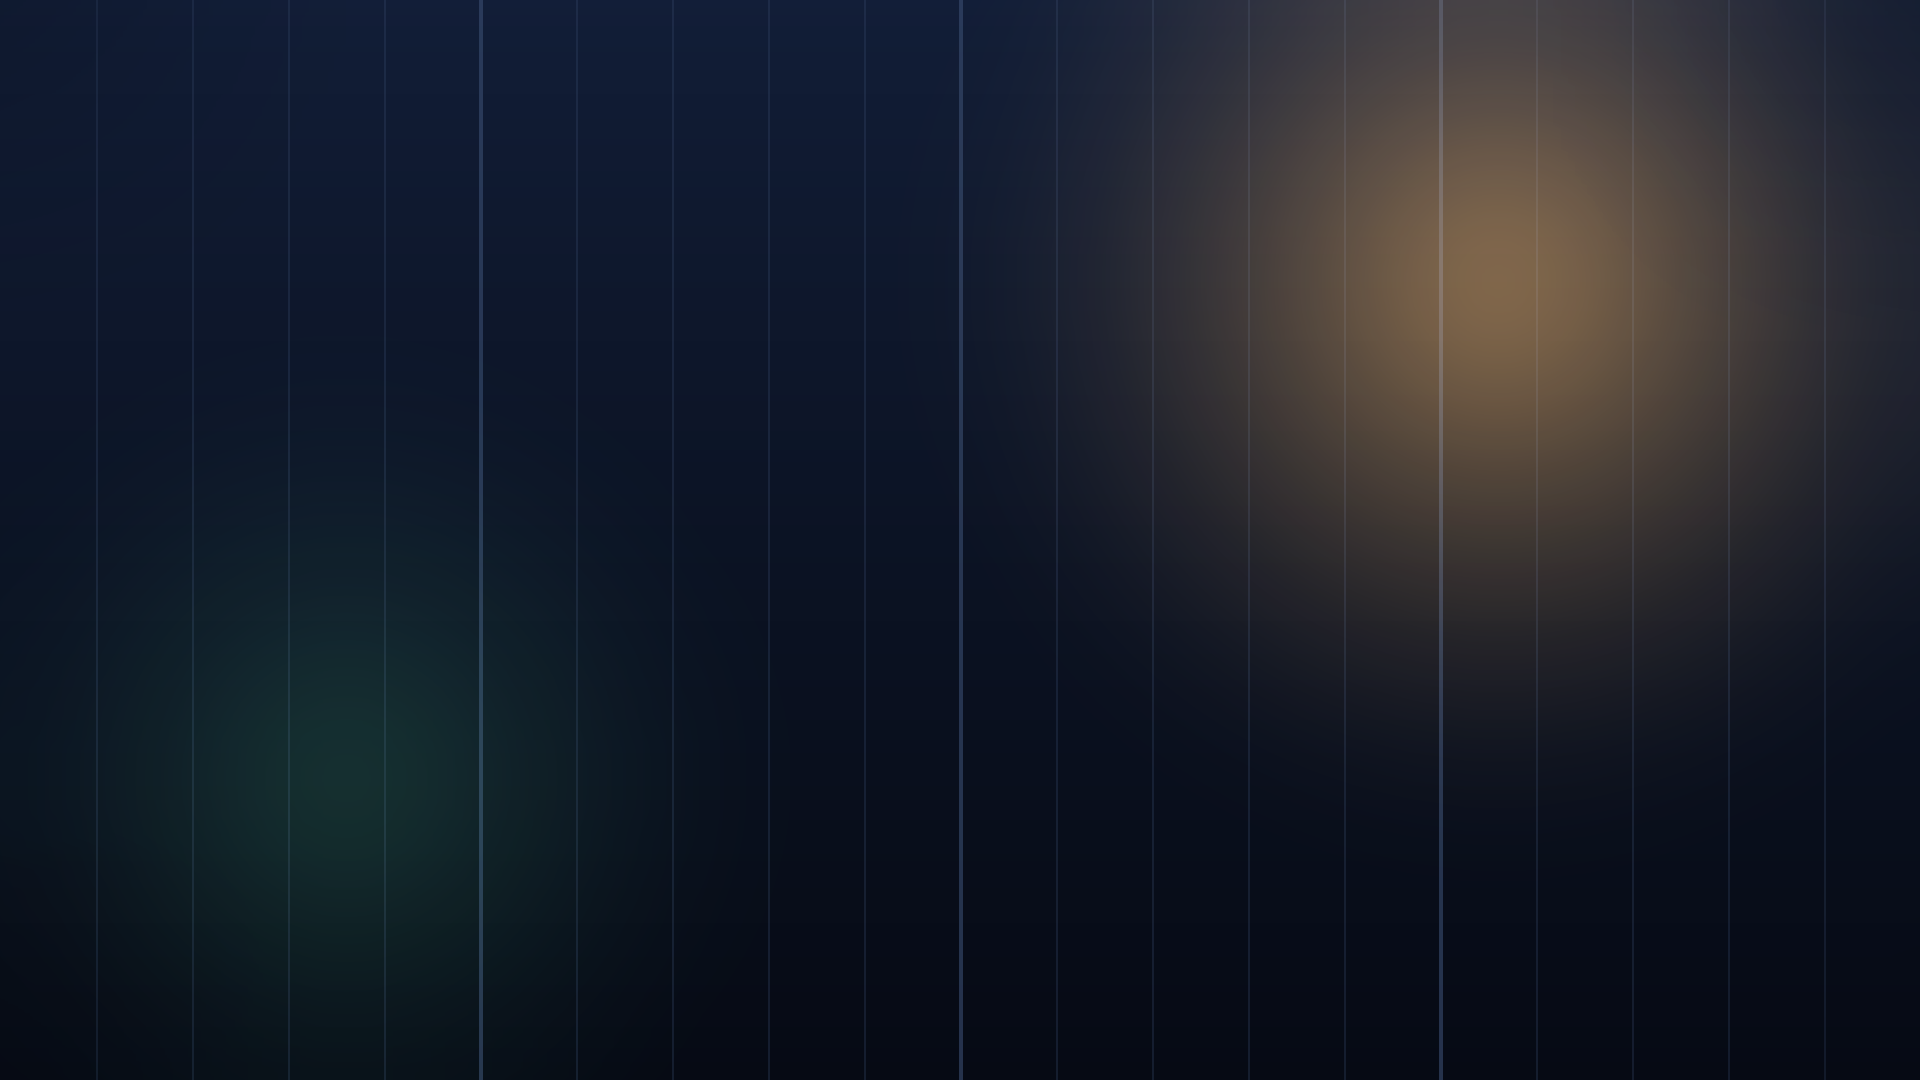
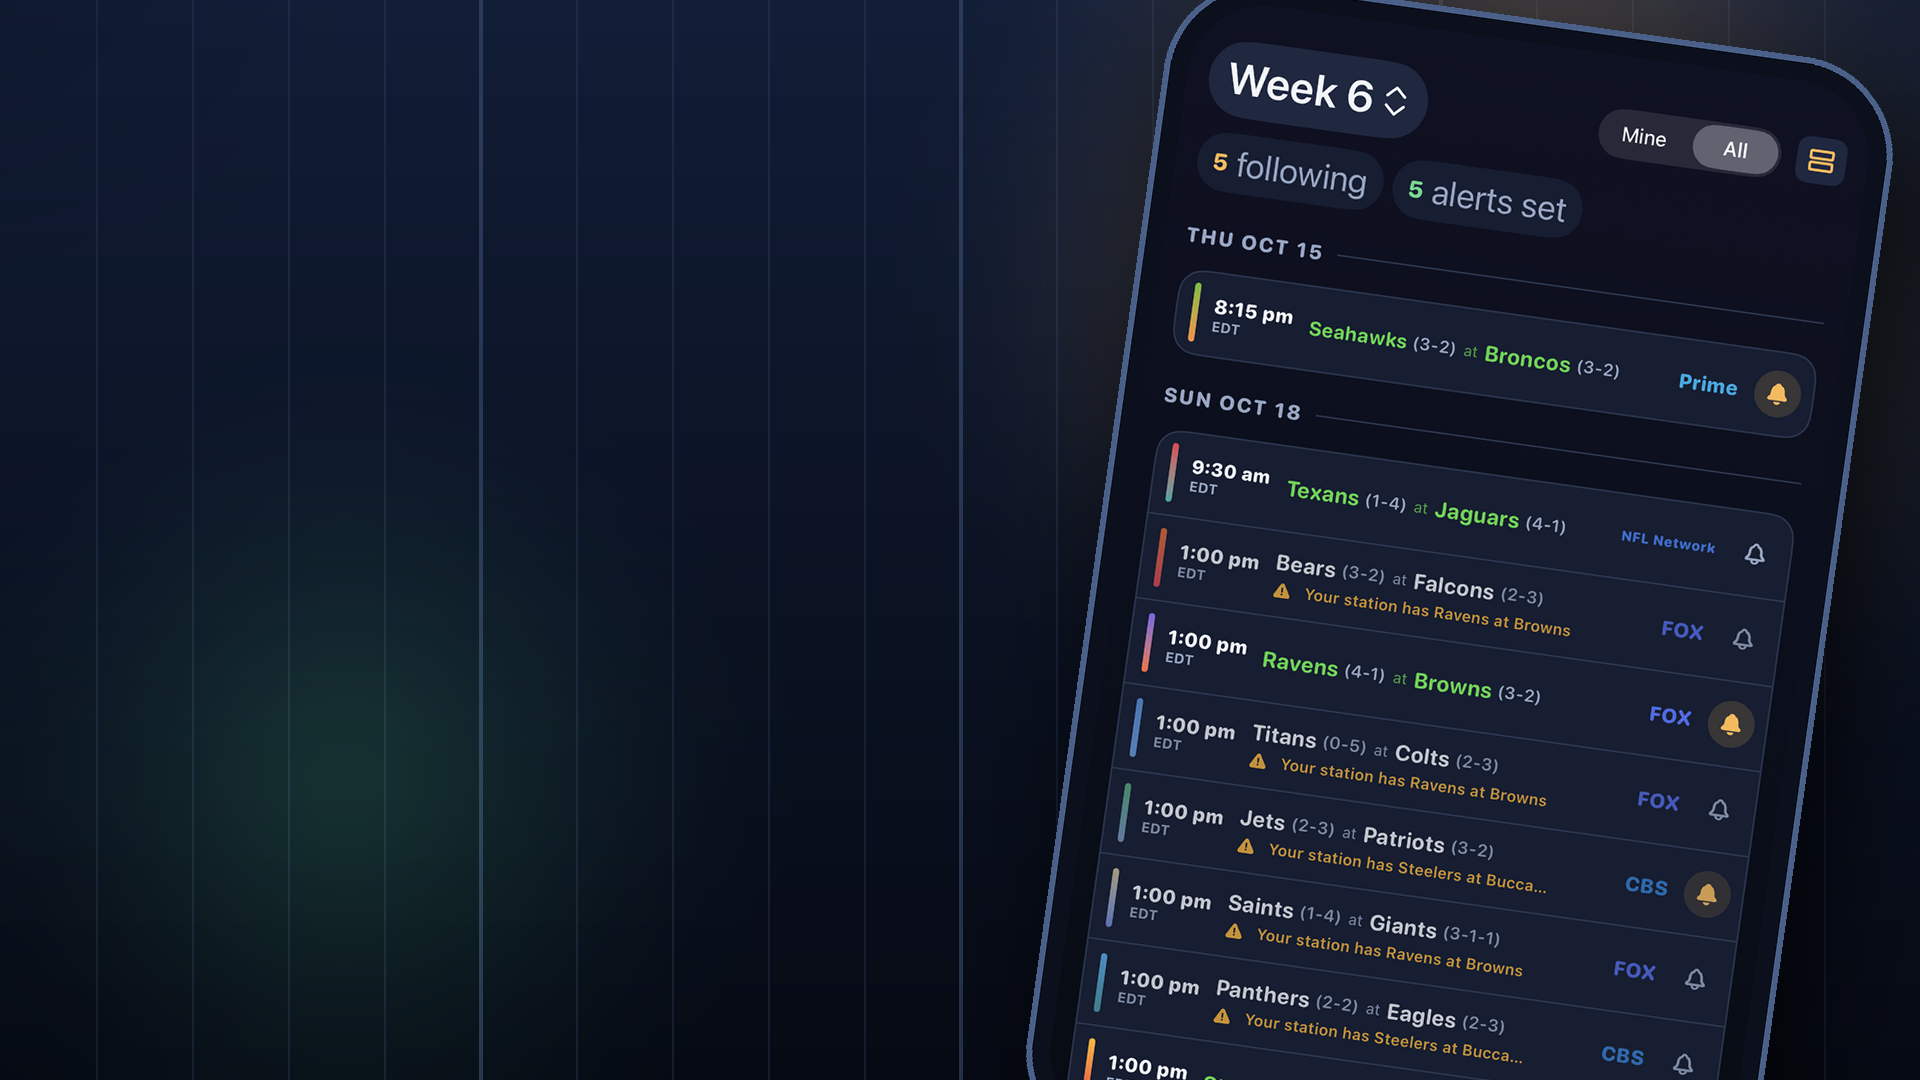
In-App Events for weeks 7 to 9, and event art that shows the app
The first batch (weeks 3 to 5) has run. Weeks 7 to 9 replace it and lead
with 1.0.7: the games you can watch in green, and the Wednesday maps.
Deep links are live now, so every event opens its week; the warning to
leave them blank is gone.

The event art was a near-empty navy card. Both images now carry a phone
showing the real week list, kept clear of the corner Apple sets its text
in.

Claude-Session: https://claude.ai/code/session_01QDzDAS6aDTHkN6uYPCwXbe

Changed region(s): [[0.5312, 0.0, 1.0, 1.0], [0.6562, 0.6111, 0.7812, 0.6417], [0.875, 0.5806, 0.9062, 0.6111]]

diff --git a/marketing/event-art/make-art.py b/marketing/event-art/make-art.py
@@ -1,6 +1,10 @@
 #!/usr/bin/env python3
 """Event art for App Store In-App Events.
 
+Updated for 1.0.7: the background alone read as a blank navy card, which says nothing about the
+app. Each image now carries a phone showing the real week list (a capture from a real phone, the
+games you can watch in green), set clear of the corner Apple puts its own text in.
+
 Apple overlays the event name and description on top of whatever you upload, and its own
 guidance is to keep text and logos out of the image. So this makes backgrounds, not posters:
 one 16:9 event card and one 9:16 details page, in the app's own palette, deliberately calm
@@ -45,7 +49,47 @@ def glow(size, centre, colour, radius, strength):
     return layer.filter(ImageFilter.GaussianBlur(min(w, h) * 0.06))
 
 
-def build(w, h, accent_at, field_at, path):
+SHOT = os.path.join(os.path.dirname(os.path.abspath(__file__)), "..", "store-art", "captures",
+                    "week6-west-palm (original, no headline).png")
+
+
+def phone(img, centre, height, angle):
+    """A phone showing the week list, with a lit bezel and a soft shadow, rotated slightly.
+
+    The screen is cropped below the status bar and above the tab bar: at card size those are
+    noise, and the rows of games are the point.
+    """
+    shot = Image.open(SHOT).convert("RGB")
+    sw, sh = shot.size
+    shot = shot.crop((0, round(sh * 0.10), sw, round(sh * 0.86)))
+    ph = round(height)
+    pw = round(ph * shot.width / shot.height)
+    shot = shot.resize((pw, ph), Image.LANCZOS)
+    pad = round(pw * 0.035)
+    radius = round(pw * 0.11)
+
+    layer = Image.new("RGBA", (pw + pad * 2, ph + pad * 2), (0, 0, 0, 0))
+    d = ImageDraw.Draw(layer)
+    d.rounded_rectangle([0, 0, layer.width - 1, layer.height - 1], radius + pad,
+                        fill=(0x0B, 0x10, 0x1C, 255), outline=(0x4A, 0x60, 0x88, 255), width=max(3, pad // 4))
+    mask = Image.new("L", shot.size, 0)
+    ImageDraw.Draw(mask).rounded_rectangle([0, 0, pw - 1, ph - 1], radius, fill=255)
+    layer.paste(shot, (pad, pad), mask)
+    layer = layer.rotate(angle, resample=Image.BICUBIC, expand=True)
+
+    w, h = img.size
+    x = round(w * centre[0] - layer.width / 2)
+    y = round(h * centre[1] - layer.height / 2)
+    shadow = Image.new("RGBA", img.size, (0, 0, 0, 0))
+    sm = layer.split()[3].point(lambda a: 200 if a else 0)
+    shadow.paste((0, 0, 0, 255), (x + round(pw * 0.03), y + round(pw * 0.06)), sm)
+    shadow = shadow.filter(ImageFilter.GaussianBlur(pw * 0.08))
+    out = Image.alpha_composite(img.convert("RGBA"), shadow)
+    out.alpha_composite(layer, (x, y))
+    return out.convert("RGB")
+
+
+def build(w, h, accent_at, field_at, path, phone_at=None):
     img = Image.new("RGB", (w, h))
     d = ImageDraw.Draw(img)
     for y in range(h):                                   # vertical gradient, top lighter
@@ -70,6 +114,8 @@ def build(w, h, accent_at, field_at, path):
     ImageDraw.Draw(vig).ellipse([-w * 0.18, -h * 0.18, w * 1.18, h * 1.18], fill=255)
     vig = vig.filter(ImageFilter.GaussianBlur(min(w, h) * 0.14))
     img = Image.composite(img, Image.new("RGB", (w, h), BG_BOTTOM), vig)
+    if phone_at:
+        img = phone(img, *phone_at)
 
     img.save(path, "PNG", optimize=True)
     print(f"{os.path.relpath(path)}  {w}x{h}")
@@ -79,5 +125,8 @@ if __name__ == "__main__":
     here = os.path.dirname(os.path.abspath(__file__))
     # Apple sets the event name low-left on the card and low on the details page, so the light
     # goes high and right of it.
-    build(1920, 1080, (0.78, 0.26), (0.18, 0.72), os.path.join(here, "event-card-16x9.png"))
-    build(1080, 1920, (0.72, 0.22), (0.20, 0.58), os.path.join(here, "event-details-9x16.png"))
+    # The phone sits in the light: right of centre on the card, upper half on the details page.
+    build(1920, 1080, (0.78, 0.26), (0.18, 0.72), os.path.join(here, "event-card-16x9.png"),
+          phone_at=((0.76, 0.56), 1080 * 1.05, -8))
+    build(1080, 1920, (0.72, 0.22), (0.20, 0.58), os.path.join(here, "event-details-9x16.png"),
+          phone_at=((0.54, 0.33), 1920 * 0.56, -6))

diff --git a/marketing/in-app-events.md b/marketing/in-app-events.md
@@ -1,17 +1,7 @@
 # In-App Events: the first batch, ready to paste
 
-**Before you start, two corrections to the plan you were given.**
-
-*It said 15 approved and 10 live.* The real caps are **10 events in an approved/published state
-at once, and only 5 shown on your product page**. So there is no point batching 15 - batch four
-or five and top up.
-
-*It treated the deep link as step zero.* It is, and it was missing: the app had a handler for
-incoming links but no registered URL scheme, so nothing could ever reach it. That is now built
-(`gamedial://week/3`, `gamedial://game/<id>`, `gamedial://alerts`) but it is **not in the live
-build** - 1.0.1 (67) shipped before it. Until 1.0.2 is out, **leave the deep-link field blank**.
-An event whose link the live app cannot honour is worse than an event with no link: a reviewer
-taps it, nothing happens, and the event is rejected.
+Deep links work in the live app (`gamedial://week/7`, `gamedial://game/<id>`,
+`gamedial://alerts`), so every event below can open GameDial straight to its week.
 
 ## Fields, and what Apple actually does with them
 
@@ -37,37 +27,41 @@ Regenerate with `python3 marketing/event-art/make-art.py` if the palette ever ch
 - "Minor updates, bug fixes, or routine improvements do not qualify." Every event below is
   pegged to a real dated moment for exactly this reason.
 
-## Batch 1 - submit now
+## Batch 1 - weeks 7 to 9 (refreshed for 1.0.7)
 
-Windows run Thursday evening to Tuesday small hours so the event is live across TNF, Sunday and
-MNF, rather than only during the window it is named for. All times Eastern.
+The first batch (weeks 3 to 5) has run. These replace it, and lead with what is new: the games you
+can watch in green, and the maps read every Wednesday. Same windows as before, Thursday evening to
+the Tuesday small hours, all times Eastern.
 
-### 1. Week 3 Coverage Map
-- **Reference name:** 2026 W03 Sunday regional coverage
-- **Event name:** Week 3 Coverage Map
-- **Short description:** The CBS and FOX games your market gets
-- **Long description:** Sunday's regional map is in. See which games your area receives, when coverage starts, and the channel.
+Submit week 7 now and week 8 by Monday Oct 19. Week 9 starts more than 14 days out, so Apple will
+not take it until **Thursday Oct 22**.
+
+### 1. Week 7: Your Games in Green
+- **Reference name:** 2026 W07 games you can watch
+- **Event name:** Week 7: Your Games in Green
+- **Short description:** See which games are on your TV this week
+- **Long description:** Sunday's games you can watch are in green: your local CBS and FOX games, plus the ones on your services.
 - **Badge:** Live Event · **Priority:** Normal
-- **Runs:** Thu Sep 24, 6:00 pm - Tue Sep 29, 2:00 am
-- **Deep link:** (blank until 1.0.2 is live) then `gamedial://week/3`
+- **Runs:** Thu Oct 22, 6:00 pm - Tue Oct 27, 2:00 am
+- **Deep link:** `gamedial://week/7`
 
-### 2. Week 4 Sunday Channels
-- **Reference name:** 2026 W04 Sunday regional coverage
-- **Event name:** Week 4 Sunday Channels
-- **Short description:** Both windows, mapped to your market
-- **Long description:** One o'clock and four o'clock are different games in different cities. Check which two you get before kickoff.
+### 2. Week 8 Maps Are In
+- **Reference name:** 2026 W08 Wednesday coverage maps
+- **Event name:** Week 8 Maps Are In
+- **Short description:** Your local Sunday games, updated Wednesday
+- **Long description:** The regional maps came out Wednesday. Your 1 and 4 o'clock games are in, with your station and channel.
 - **Badge:** Live Event · **Priority:** Normal
-- **Runs:** Thu Oct 1, 6:00 pm - Tue Oct 6, 2:00 am
-- **Deep link:** `gamedial://week/4`
+- **Runs:** Thu Oct 29, 6:00 pm - Tue Nov 3, 2:00 am
+- **Deep link:** `gamedial://week/8`
 
-### 3. Week 5 Doubleheader Sunday
-- **Reference name:** 2026 W05 doubleheader
-- **Event name:** Doubleheader Sunday
-- **Short description:** One network gets both windows. Which one?
-- **Long description:** On doubleheader weeks a single network carries your afternoon. Find out which, and what it is showing.
+### 3. Week 9: What's On Near You
+- **Reference name:** 2026 W09 games on near you
+- **Event name:** Week 9: What's On Near You
+- **Short description:** Every game this week, and where to find it
+- **Long description:** Home or on the road, see which games your area gets, the channel to turn to and when coverage starts.
 - **Badge:** Live Event · **Priority:** Normal
-- **Runs:** Thu Oct 8, 6:00 pm - Tue Oct 13, 2:00 am
-- **Deep link:** `gamedial://week/5`
+- **Runs:** Thu Nov 5, 6:00 pm - Tue Nov 10, 2:00 am
+- **Deep link:** `gamedial://week/9`
 
 ## Batch 2 - the tentpoles, submit ~12 days before each
 
